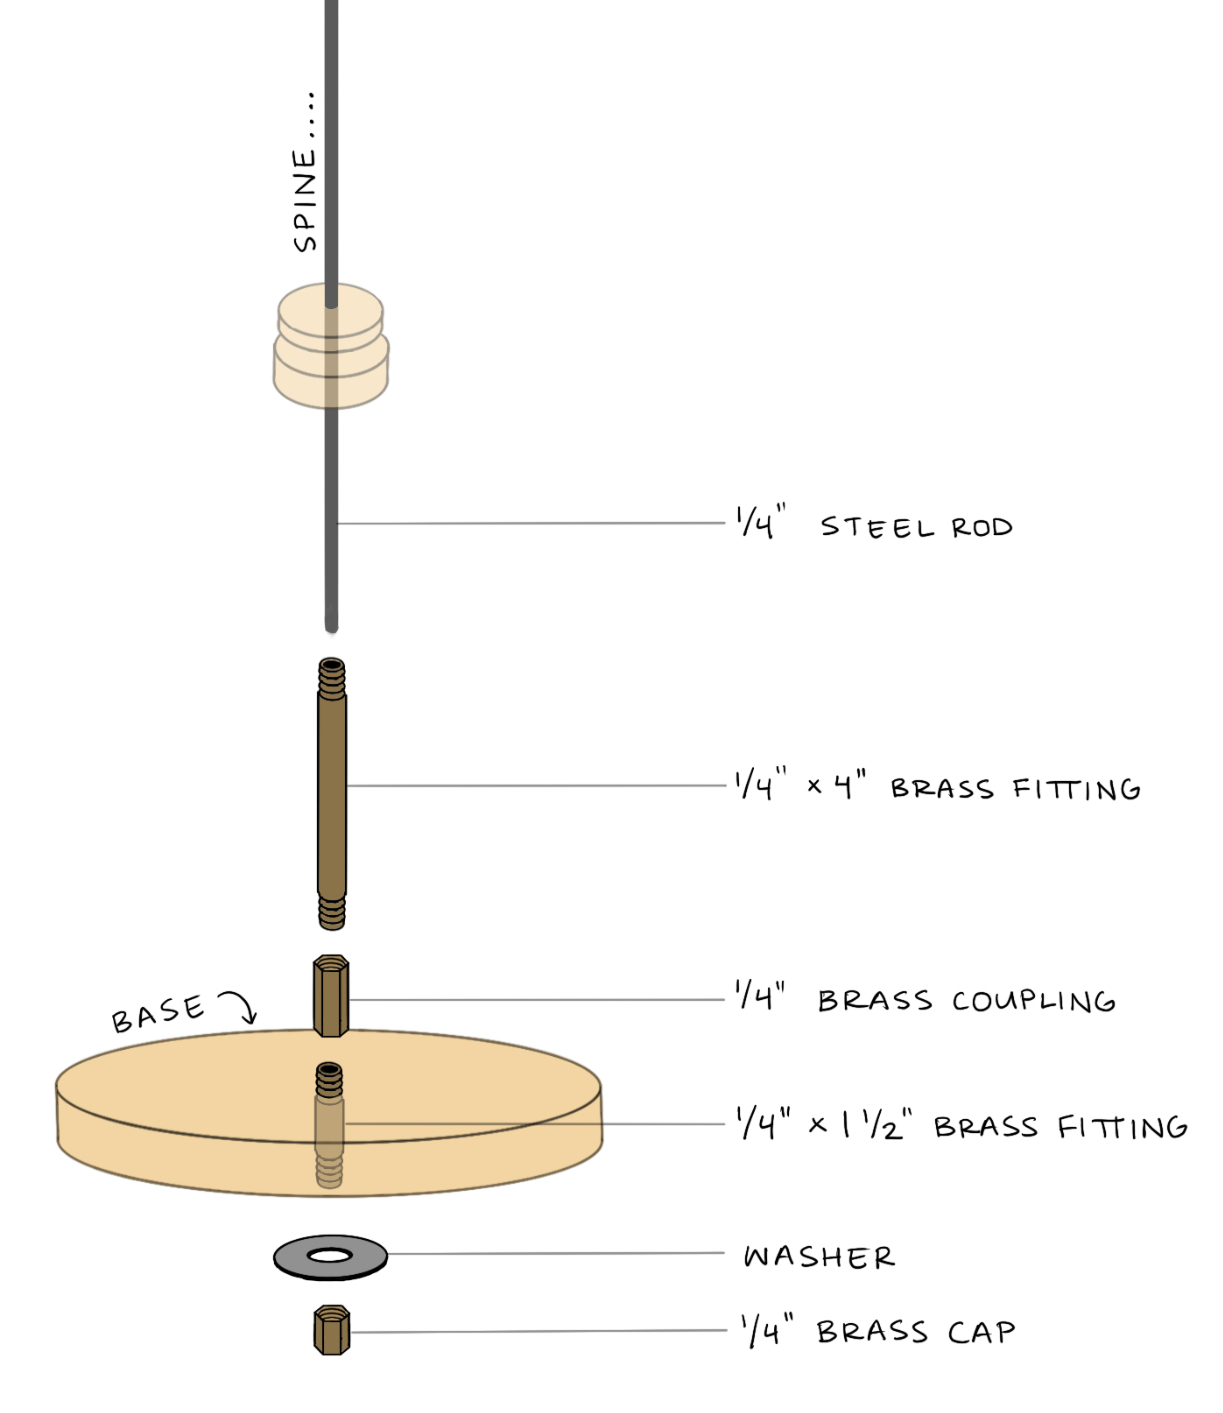
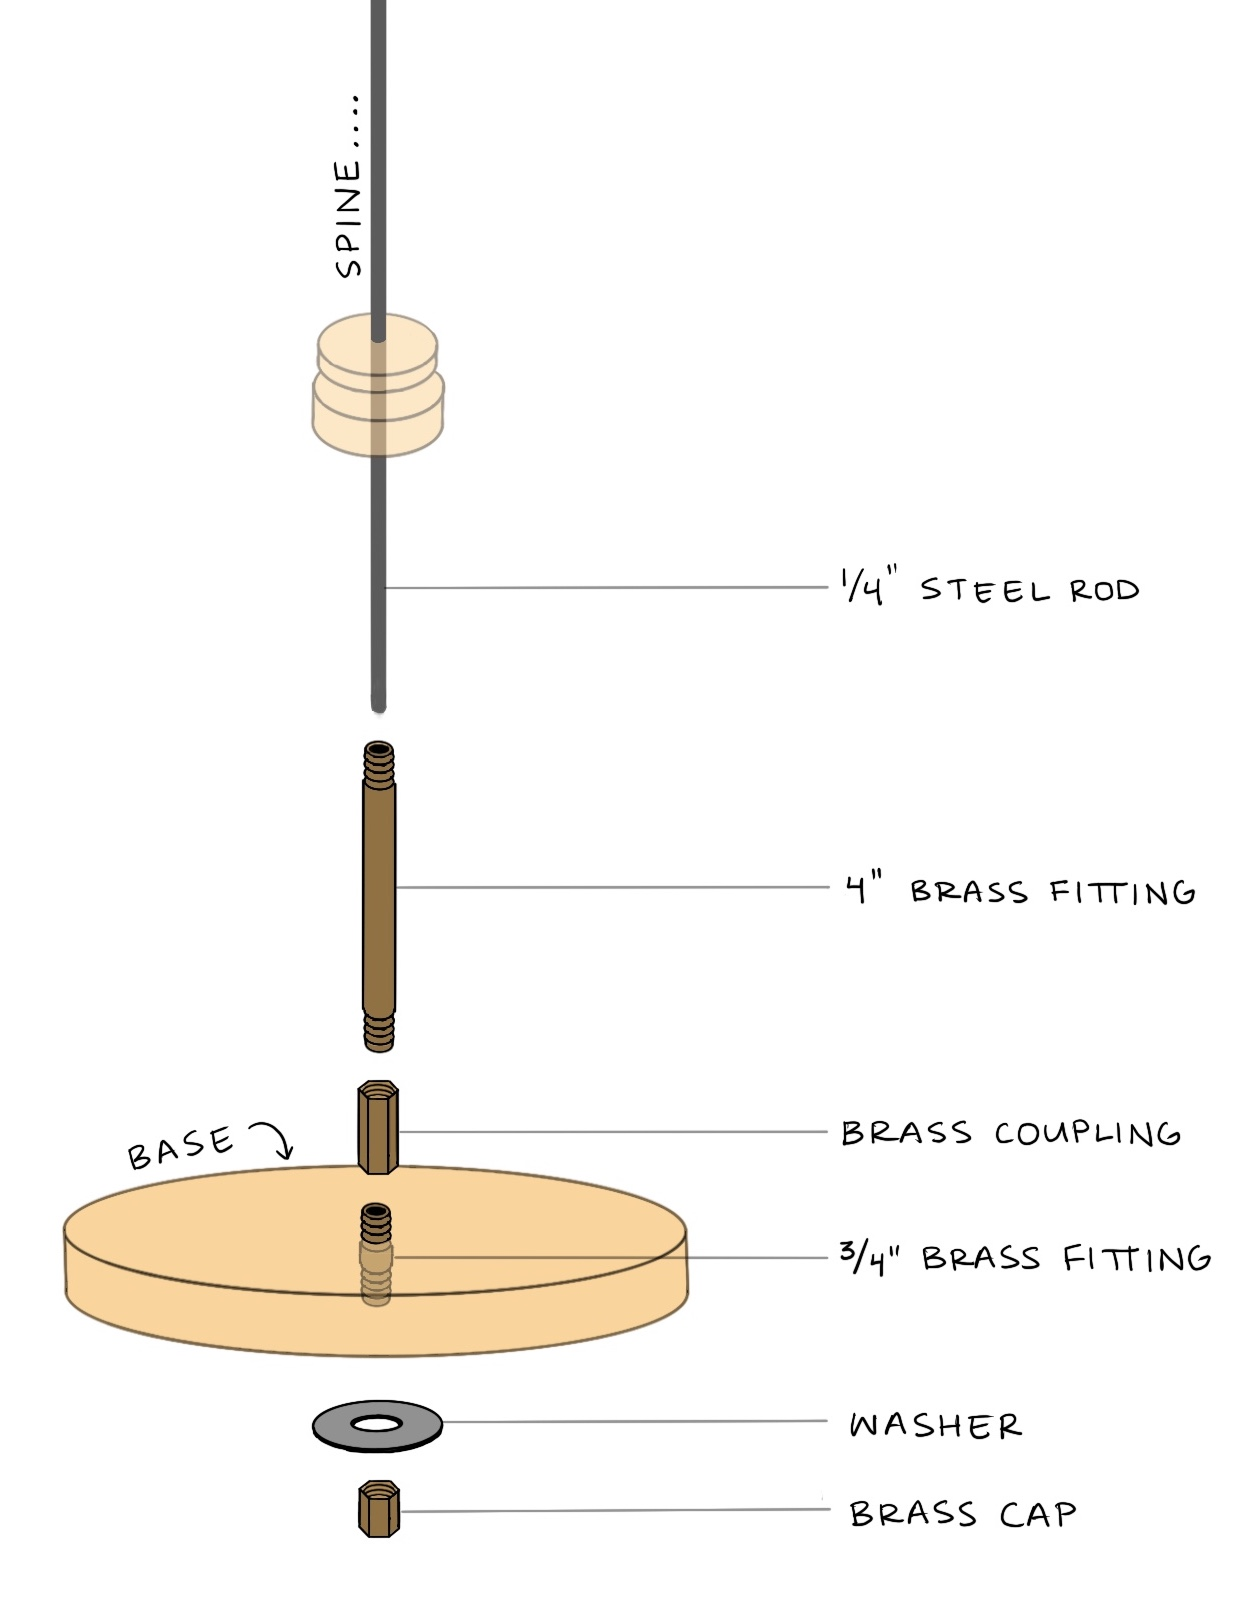
Corrected URLs for brass pipe fittings, updated mounting diagram

diff --git a/_projects/2022-09-24-rib-cage.md b/_projects/2022-09-24-rib-cage.md
@@ -47,15 +47,15 @@ A hand-carved wooden rib cage with a heart of LEDs. The lights have several mode
 - [**Wax wood polish**](https://www.homedepot.com/p/Howard-16-oz-Feed-N-Wax-wood-polish-FW0016/100592963){:target="blank"}
 - [**1/4" steel rod**](https://www.homedepot.com/p/Everbilt-1-4-in-x-48-in-Plain-Steel-Round-Rod-801587/204273972){:target="blank"} - runs throughout spine for support.
 - [**Adafruit Fixed Address NeoPixel LED Fairy Lights**](https://www.adafruit.com/product/4917){:target="blank"}
-- **Solid core copper wire** for mounting the atom to the ribs and for the atom structure.
+- **Solid core copper wire** for mounting the atom to the ribs and for the internal atom structure.
 - [**22 gauge garden wire**](https://www.michaels.com/22-gauge-gold-aluminum-florist-wire-by-ashland/10626558.html){:target="blank"} for wrapping around solid core copper wire to make it look nicer.
 
 #### Base
 - **Round hardwood disc** for base. I used a piece of an old lazy susan I bought at Savers!
-- [**1/4" x 4" brass fitting**](https://www.homedepot.com/p/Everbilt-1-4-in-x-4-in-MIP-Brass-Nipple-Fitting-802409/207176304){:target="blank"} - the longest brass tube between rib cage and base.
-- [**1/4" brass coupling**](https://www.homedepot.com/p/Everbilt-1-4-in-MIP-x-1-4-in-FIP-Brass-Coupling-Fitting-801889/300096754){:target="blank"} - for screwing the longest tube onto the base.
-- [**1/4" x 1-1/2" brass fitting**](https://www.homedepot.com/p/Everbilt-1-4-in-x-1-1-2-in-MIP-Brass-Nipple-Fitting-802569/207176344){:target="blank"} - short brass tube that goes through base and screws into the coupling.
-- [**1/4" brass cap**](https://www.homedepot.com/p/Everbilt-1-4-in-FIP-Brass-Cap-Fitting-802029/300096129){:target="blank"} - screws into the short tube underneath the base.
+- [**4" Brass fitting**](https://www.homedepot.com/p/Everbilt-1-8-in-x-4-in-MIP-Brass-Nipple-Fitting-802549/207176408){:target="blank"} - the longest brass tube between rib cage and base.
+- **Brass coupling** - for screwing the longest tube onto the base.
+- **3/4" Brass fitting** - short brass tube that goes through base and screws into the coupling.
+- **Brass cap** - screws into the short tube underneath the base.
 - [**Cabinet knobs**](https://www.homedepot.com/p/Liberty-Drum-1-1-4-in-32-mm-Champagne-Bronze-Round-Cabinet-Knob-P35538C-CZ-CP/207033029){:target="blank"} - 4 feet for base.
 
 #### Electronics
